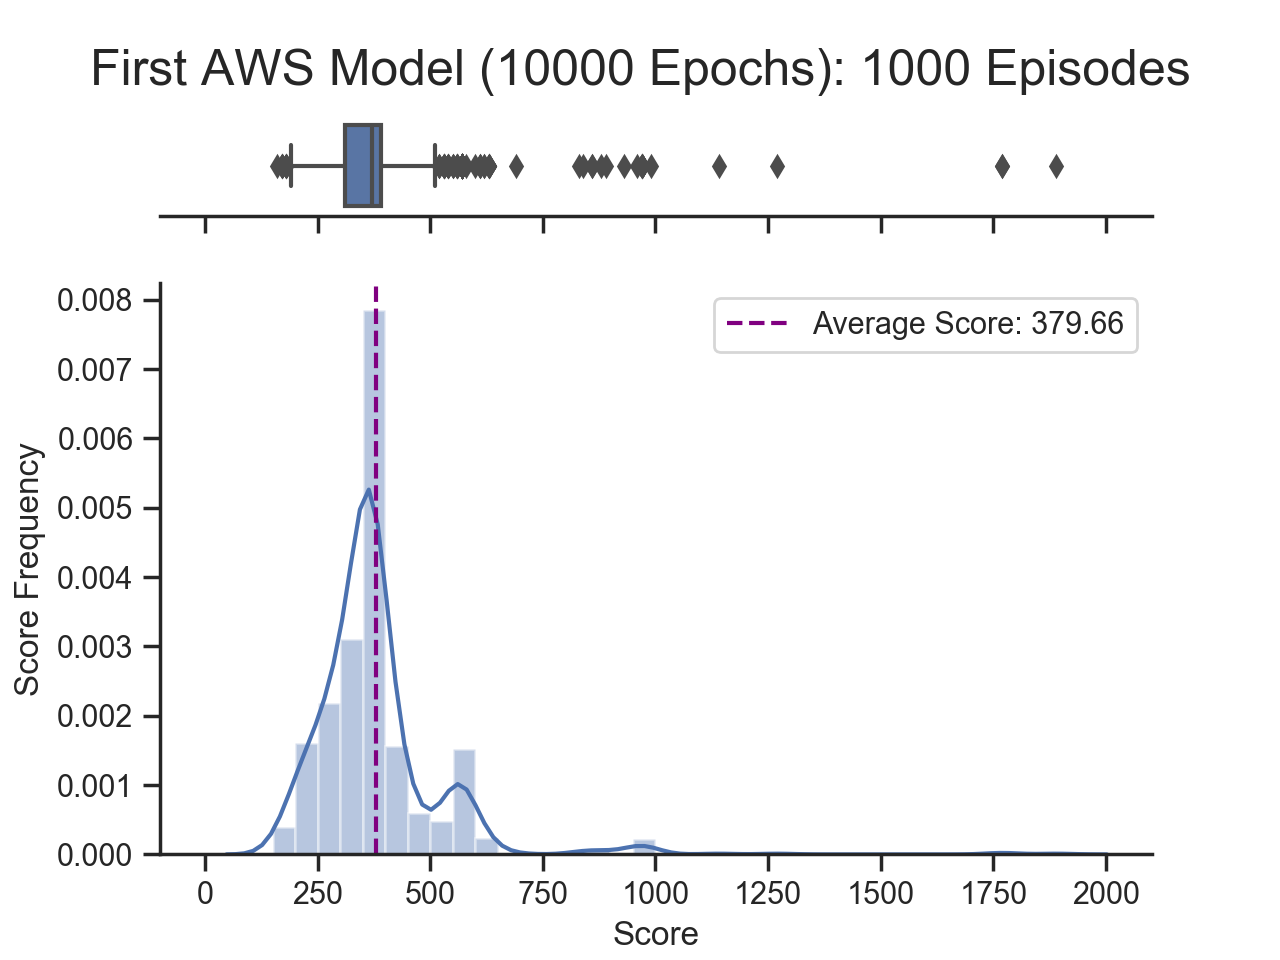
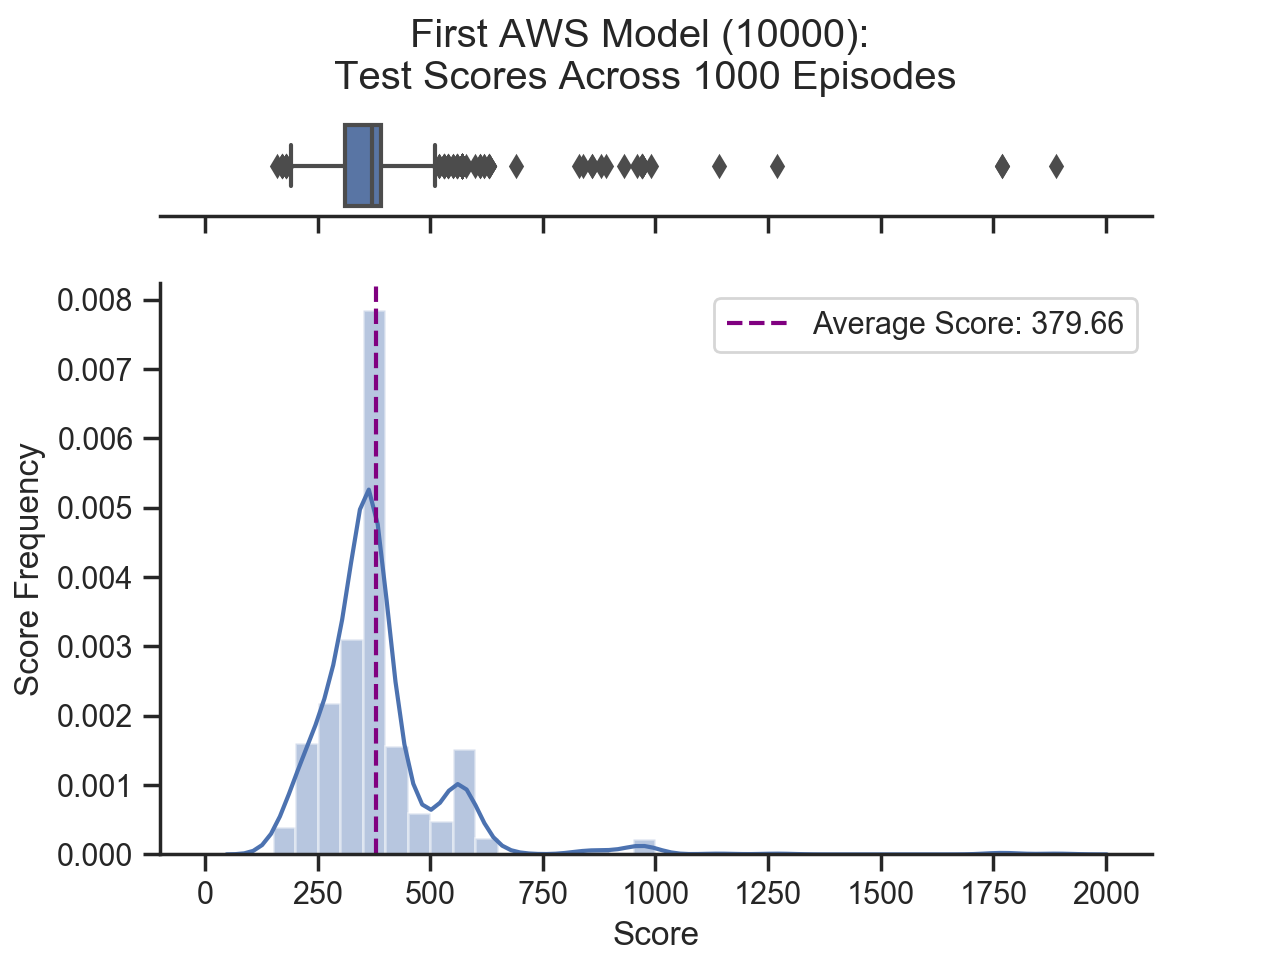
title clarifications

Changed region(s): [[0.0625, 0.0, 0.9375, 0.0938]]

diff --git a/Saved Scores/table3plot.py b/Saved Scores/table3plot.py
@@ -5,7 +5,7 @@ import seaborn as sns
 import numpy as np
 import pickle
 
-# python3 -i table3plot.py "../performance_tests/data/first_aws_model/" num_epochs "First AWS Model (1000 Epochs)"
+# python3 -i table3plot.py "../performance_tests/data/first_aws_model/" num_epochs "First AWS Model (1000)"
 args = (sys.argv[1:])
 
 dir = os.listdir(args[0])

diff --git a/Saved Scores/table1plot2.py b/Saved Scores/table1plot2.py
@@ -51,5 +51,6 @@ legend = ax.legend(loc='upper right')
 plt.xlabel("# Epochs Trained")
 plt.xticks(xs)
 plt.ylabel("Score")
-plt.title("Score Data: {}".format(model_name))
+num_episodes = len(scores[logfile_names[0]])
+plt.title("{}: Test Score Data".format(model_name))
 plt.show()
